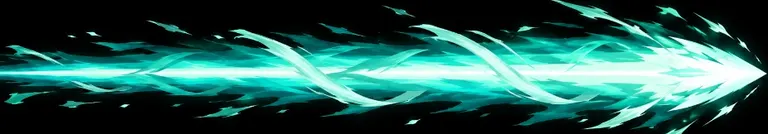
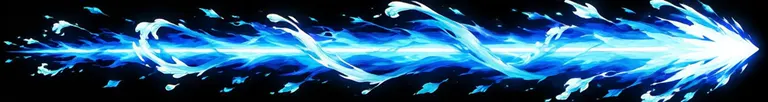
feat(ults): all six ultimates throw their own painted lance
The sheet the user drew holds six lances, one per element, and they now fly.
tools/pack-bolt.mjs learned --row: it reads the sheet's own brightness line by
line and cuts where the art is actually empty, because equal sixths are wrong
on this sheet — the water and nature rows each overhang their band, so every
band arrived with a slice of its neighbour in it and the content box then
measured the pair.

Five rows go to fire, water, nature, lightning and arcane. The sixth is a
second violet — a void bolt with dark orbs in it — and there is only one
violet slot on the roster, so it stays in the sheet unpacked and WIND keeps
the pale aqua lance that arrived first, which is the colour WIND has on the
board. That lance was packed as `water` last time and is renamed rather than
re-cut.

In Vfx.ultCast the lance is asked for before art/streams.js's jets, and it is
anchored at its head and turned to face the path: a lance is a thrown object
with a heading, and it is the only one of the two that can point where it is
going. What lands is unchanged — the spell sheet's blast, with the sprite
given back its centre anchor and its rotation on the way in. Arissa's torrent
and Ricklow's fire jet are still there behind the lance and still play for any
element with no lance art, so this is one line to put back.

ULT_FX.boltLong is 0.95 against boltSize's 0.3 because the two measure
different objects: a square cell of a gathering effect has to stay small or it
[…]

diff --git a/src/fx/vfx.js b/src/fx/vfx.js
@@ -561,11 +561,19 @@ export class Vfx extends Container {
     await this.ultGather(from, color, light, size * ULT_FX.gatherSize);
     this.ultMuzzle(from, to, color, size);
 
+    // The painted lance is the first thing asked for and the jets are the
+    // fallback, not the other way round: a lance is a thrown object with a head
+    // and a heading, and it is the only one of the two that can be turned to
+    // face where it is going. An element with no lance still gets whatever jet
+    // art/streams.js holds for it, and then the bolt below.
+    const lance = boltArt(element);
+
     if (
-      await this.stream(element, from, to, color, {
+      !lance &&
+      (await this.stream(element, from, to, color, {
         thickness: size * ULT_FX.streamThick,
         ...(o.stream || {}),
-      })
+      }))
     ) {
       this.ultShock(to, from, color, light, size);
       return;
@@ -574,7 +582,7 @@ export class Vfx extends Container {
     this.ultLance(from, to, light, size);
 
     const frames = spellFrames(SPELL_BY_ELEMENT[element]);
-    if (!frames) {
+    if (!frames && !lance) {
       if (element === FIRE) await this.fireball(from, to, color, o);
       else
         await this.beam(from, to, color, { element, ...o, ...(o.beam || {}) });
@@ -582,8 +590,14 @@ export class Vfx extends Container {
       return;
     }
 
-    const bolt = new Sprite(frames[0]);
-    bolt.anchor.set(0.5);
+    const bolt = new Sprite(lance ? lance.texture : frames[0]);
+    // A lance is anchored at its head, so the point is what sits on the
+    // travelling position and the tail streams back down the path behind it.
+    // A sheet cell is a gathering effect with no heading at all and stays
+    // centred, exactly as it was.
+    bolt.anchor.set(lance ? 1 : 0.5, 0.5);
+    if (lance) bolt.rotation = Math.atan2(to.y - from.y, to.x - from.x);
+    if (lance && lance.tint != null) bolt.tint = lance.tint;
     bolt.blendMode = "add";
     bolt.x = from.x;
     bolt.y = from.y;
@@ -610,10 +624,15 @@ export class Vfx extends Container {
       lead.x = bolt.x;
       lead.y = bolt.y;
 
-      const w = size * (ULT_FX.boltSize + e * ULT_FX.boltSwell);
-      const i = Math.floor(e * (SPELL_TRAVEL_LAST + 1));
-      bolt.texture = frames[Math.min(SPELL_TRAVEL_LAST, i)];
-      bolt.setSize(w, w / SPELL_ASPECT);
+      if (lance) {
+        const len = size * (ULT_FX.boltLong + e * ULT_FX.boltSwell);
+        bolt.setSize(len, len / lance.aspect);
+      } else {
+        const w = size * (ULT_FX.boltSize + e * ULT_FX.boltSwell);
+        const i = Math.floor(e * (SPELL_TRAVEL_LAST + 1));
+        bolt.texture = frames[Math.min(SPELL_TRAVEL_LAST, i)];
+        bolt.setSize(w, w / SPELL_ASPECT);
+      }
 
       drop += Math.hypot(bolt.x - last.x, bolt.y - last.y);
       if (drop >= ULT_FX.trailGap) {
@@ -631,9 +650,21 @@ export class Vfx extends Container {
     tween(lead, { alpha: 0 }, 0.24).then(() => lead.destroy());
 
     // The blast stands upright where it landed, same rule as the comet's: the
-    // last five frames are drawn as fire going up off a floor.
+    // last five frames are drawn as fire going up off a floor. A lance arrives
+    // turned and anchored at its point, so both are given back here — what
+    // lands is the sheet's blast, not the thing that flew.
     bolt.x = to.x;
     bolt.y = to.y;
+    if (lance) {
+      if (!frames) {
+        tween(bolt, { alpha: 0 }, 0.2).then(() => bolt.destroy());
+        this.ultShock(to, from, color, light, size);
+        return;
+      }
+      bolt.rotation = 0;
+      bolt.anchor.set(0.5);
+      bolt.tint = 0xffffff;
+    }
     const first = SPELL_TRAVEL_LAST + 1;
     const n = frames.length - first;
     tweenValue(0, 1, o.blast || 0.52, (p) => {

diff --git a/src/art/bolts.js b/src/art/bolts.js
@@ -6,7 +6,9 @@
  * from the card to the beast, with a white one down the middle of it. Six
  * elements, one drawing, told apart by a tint.
  *
- * A bolt here replaces that drawing for the elements that have one. It is a
+ * A bolt here replaces that drawing, and the same texture is what the hero's
+ * ultimate throws across the arena — see `Vfx.ultCast`, which draws it turned to
+ * face the path rather than stretched along it. It is a
  * still, not a flipbook — the beam is on screen for about a fifth of a second
  * and a sheet would be four frames nobody sees — and it carries its own core,
  * its own torn edges and its own light, which is the whole reason it is worth
@@ -33,11 +35,30 @@
  */
 
 import { ImageSource, Texture } from "pixi.js";
-import { WATER } from "../config.js";
+import { ARCANE, FIRE, LIGHTNING, NATURE, WATER, WIND } from "../config.js";
+import fireUrl from "../assets/fx/fire-bolt.webp";
 import waterUrl from "../assets/fx/water-bolt.webp";
+import natureUrl from "../assets/fx/nature-bolt.webp";
+import lightningUrl from "../assets/fx/lightning-bolt.webp";
+import arcaneUrl from "../assets/fx/arcane-bolt.webp";
+import windUrl from "../assets/fx/wind-bolt.webp";
 
+/**
+ * Five of these are rows off one sheet, src/source/fx/lances.png, cut by
+ * tools/pack-bolt.mjs --row. WIND is the odd one out and always was: the sheet
+ * has a sixth lance, but it is a second violet — a void bolt with dark orbs
+ * turning in it — and the roster has only one violet slot. So ARCANE takes the
+ * bright violet that matches its own #A855F7 and WIND keeps the pale aqua lance
+ * that arrived on its own, which is the colour WIND has on the board. The void
+ * row stays in the sheet, unpacked, for whatever wants it.
+ */
 const ART = {
+  [FIRE]: { url: fireUrl, tint: null },
   [WATER]: { url: waterUrl, tint: null },
+  [NATURE]: { url: natureUrl, tint: null },
+  [LIGHTNING]: { url: lightningUrl, tint: null },
+  [ARCANE]: { url: arcaneUrl, tint: null },
+  [WIND]: { url: windUrl, tint: null },
 };
 
 let bolts = null;

diff --git a/src/config.js b/src/config.js
@@ -2994,6 +2994,16 @@ export const ULT_FX = {
    * Small and hot crosses a lit board; big and soft does not.
    */
   boltSize: 0.3,
+  /**
+   * The same thing for a painted lance, and much bigger, because the two are
+   * not the same object. `boltSize` measures a square cell of a gathering
+   * effect and has to stay small or it washes the board it flies over;
+   * `boltLong` measures a lance end to end, and a lance is about six times
+   * longer than it is tall, so at the cell's own fraction it arrives as a
+   * splinter. Near one times `size` it reads as a thrown spear and still only
+   * covers a sixth of the screen's width in light.
+   */
+  boltLong: 0.95,
   boltSwell: 0.22,
   travel: 0.28,
   blastScale: 1.35,
